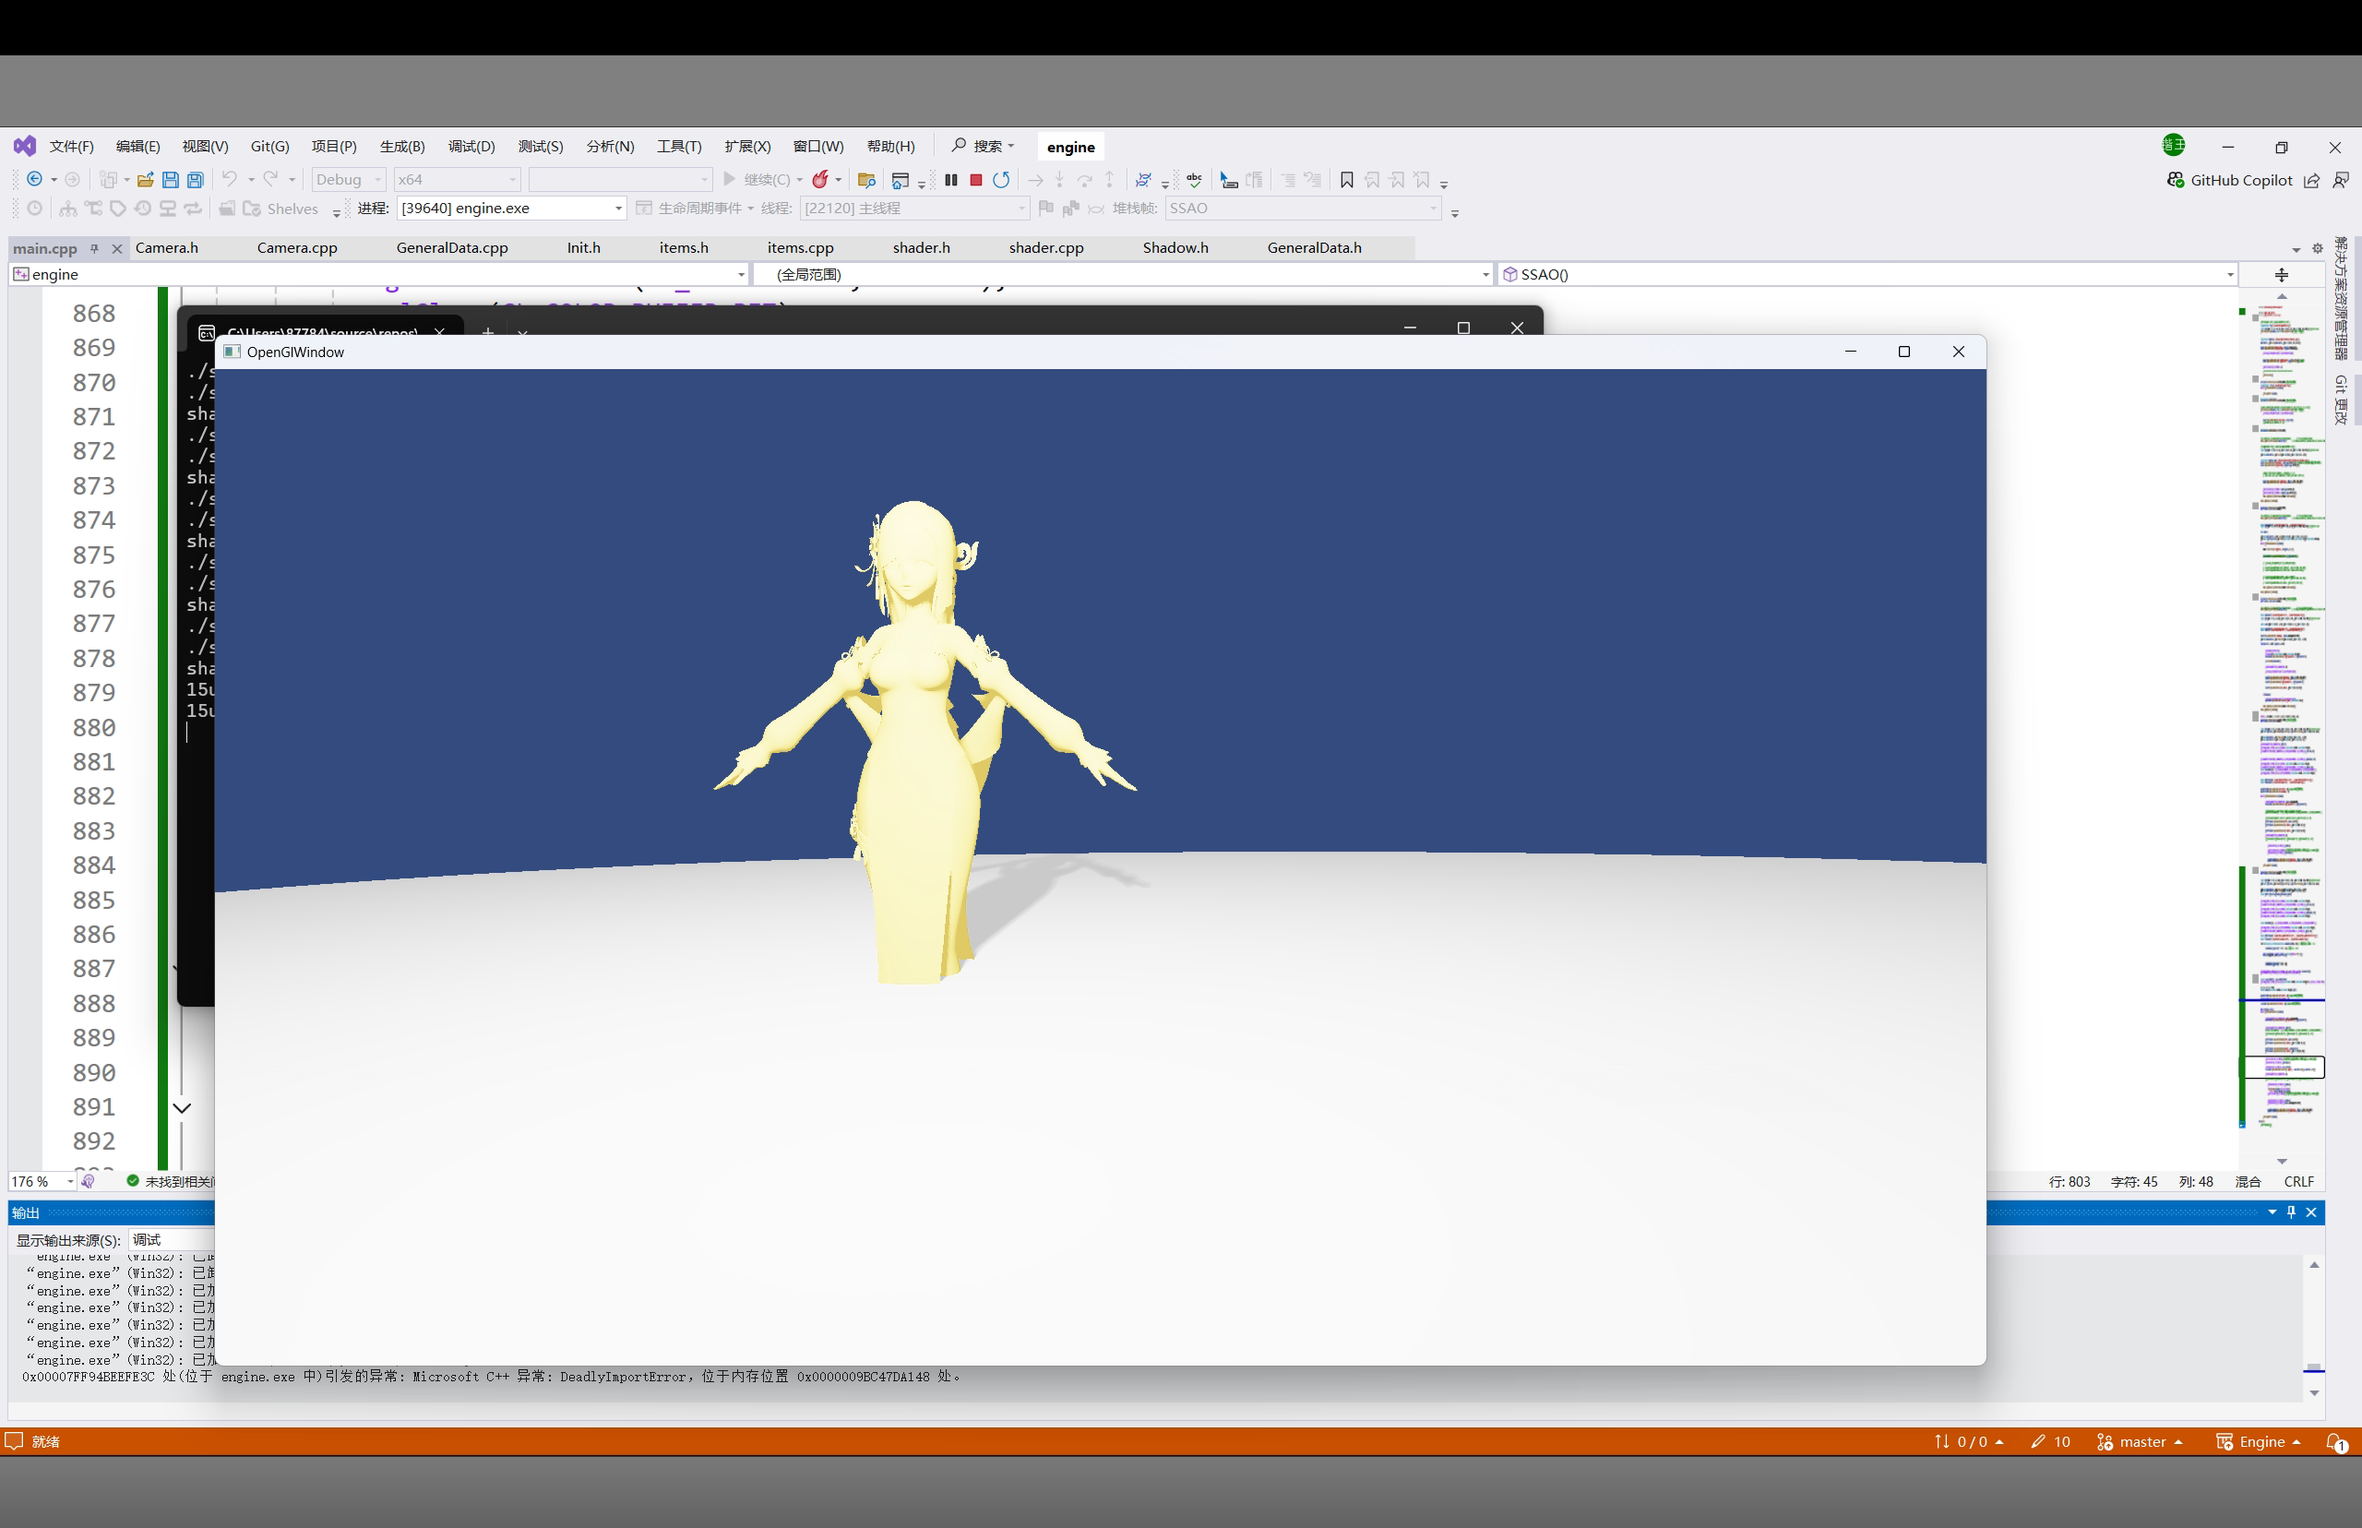
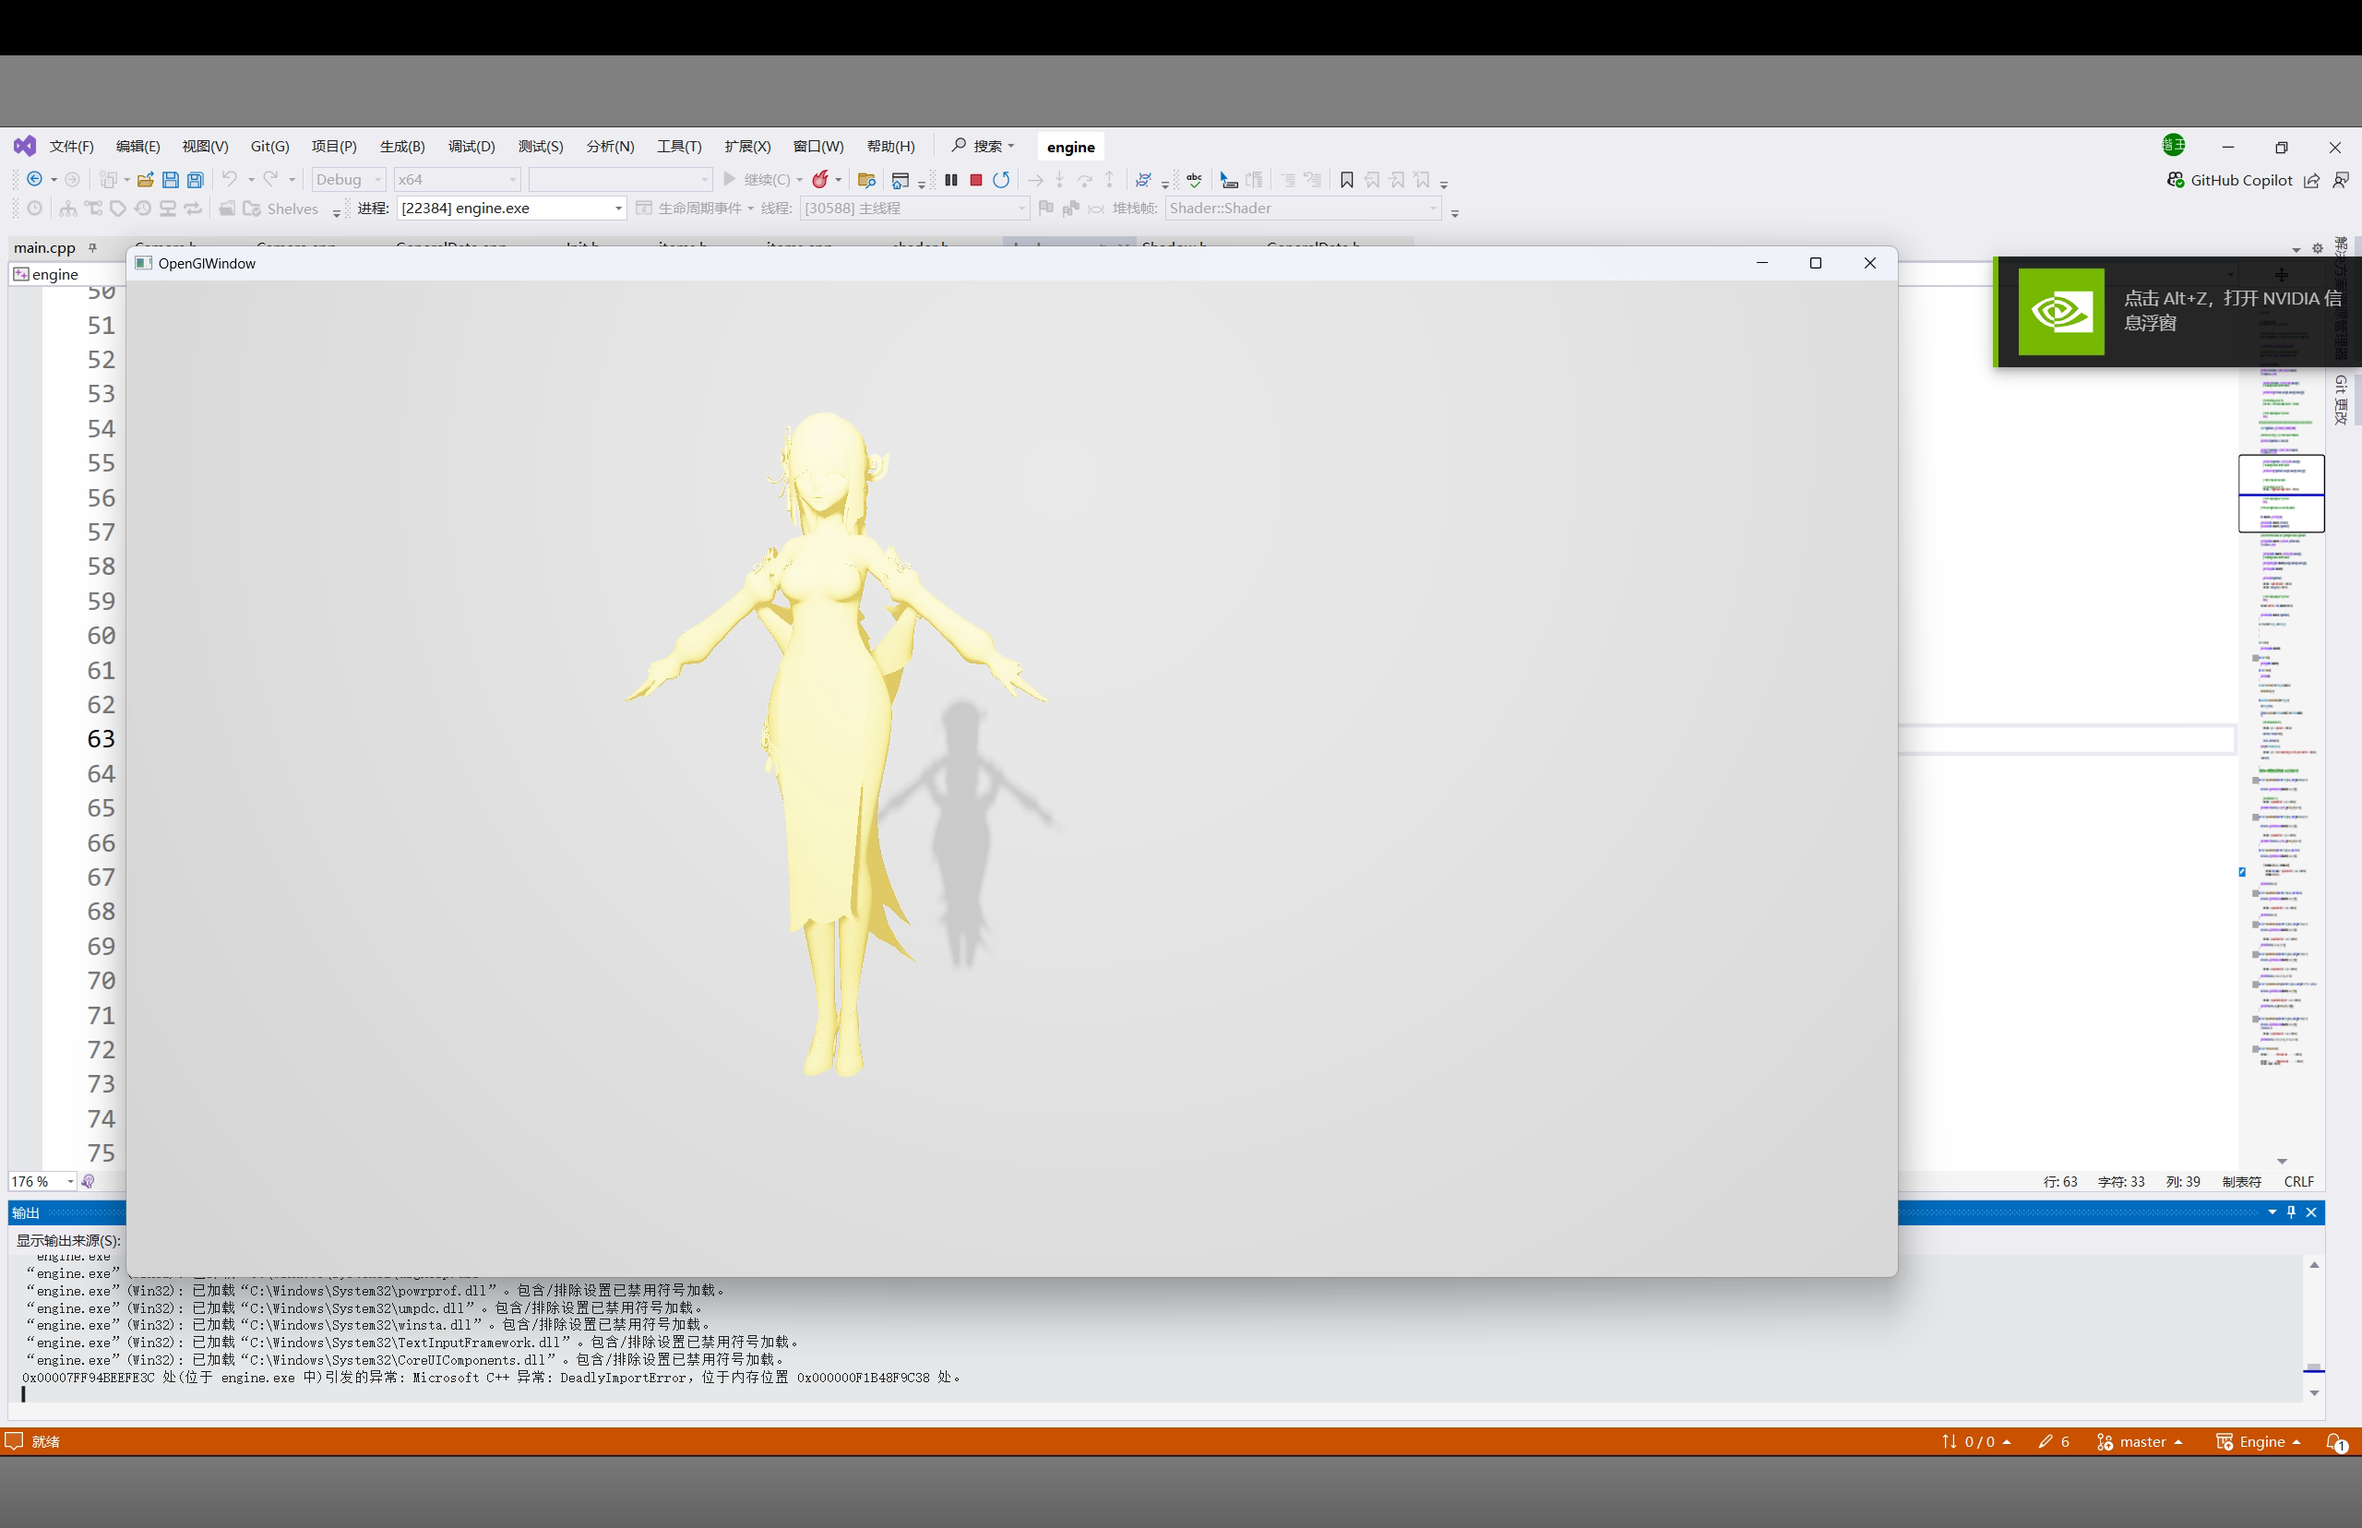
测试、修正ssao

diff --git a/engine/main.cpp b/engine/main.cpp
@@ -674,7 +674,8 @@ void SSAO()
 	//模型modle matrix
 	glm::mat4 modelMatrix = glm::translate(glm::mat4(1.0), glm::vec3(0, -2, 30));
 	modelMatrix = glm::scale(modelMatrix, glm::vec3(0.5, 0.5, 0.5));
-	glm::mat4 modelMatrix2 = glm::scale(glm::mat4(1.0), glm::vec3(5, 0.2, 3));
+
+	glm::mat4 modelMatrix2 = glm::scale(glm::mat4(1.0), glm::vec3(10, 10, 0.5));
 	modelMatrix2 = glm::translate(modelMatrix2, glm::vec3(3, -3, -3));
 	//设置G-Buffer
 	#pragma region G-Buffer
@@ -730,6 +731,7 @@ void SSAO()
 	Shader quadDeferedPBR("./shaderLib/ssaoDeferedPBR.vert", "./shaderLib/ssaoDeferedPBR.frag");
 	Shader shadowShader("./shaderLib/shadow.vert", "./shaderLib/shadow.frag");
 	Shader ssaoShader("./shaderLib/ssaoShader.vert", "./shaderLib/ssaoShader.frag");
+	ssaoShader.setName("ssaoShader");
 	#pragma endregion shader
 
 	#pragma region SSAO
@@ -791,7 +793,7 @@ void SSAO()
 	Shadow shadow(GeneralData::width,GeneralData::height,light);
 	//设置纹理
 	quadShader.Bind();
-	quadShader.UpLoadUniformInt("texture1", GL_TEXTURE0);
+	quadShader.UpLoadUniformInt("texture1", 6);
 	quadShader.UnBind();
 
 	quadDeferedPBR.Bind();
@@ -804,8 +806,8 @@ void SSAO()
 	quadDeferedPBR.UnBind();
 
 	ssaoShader.Bind();
-	ssaoShader.UpLoadUniformInt("texture1", 0);//sampler2D绑定到纹理单元
-	ssaoShader.UpLoadUniformInt("texture2", 1);
+	ssaoShader.UpLoadUniformInt("texture1", 0);
+	//ssaoShader.UpLoadUniformInt("texture2", 1);
 	ssaoShader.UpLoadUniformInt("texture3", 2);
 	ssaoShader.UpLoadUniformInt("noiseTexture", 5);
 	ssaoShader.UnBind();
@@ -833,15 +835,8 @@ void SSAO()
 		{
 			//G-Buffer pass
 			glBindFramebuffer(GL_FRAMEBUFFER, gBuffer);
-			//glViewport(0, 0, GeneralData::width, GeneralData::height);
-			//GLuint attachments[3] = { GL_COLOR_ATTACHMENT0, GL_COLOR_ATTACHMENT1, GL_COLOR_ATTACHMENT2 };
-			//glDrawBuffers(3, attachments);
-		
 			glEnable(GL_DEPTH_TEST);
-			//glClearColor(srgbToLinear(0.2f), srgbToLinear(0.3f), srgbToLinear(0.5f), 1.0);
 			glClearColor(0.2f, 0.3f, 0.5f, 1.0);
-			//glClearColor(pow(0.2f,1.0/2.2), pow(0.3f,1.0/2.2), pow(0.5f,1.0/2.2), 1.0);
-			//glClearColor(51, 76, 127, 255);
 			glClear(GL_COLOR_BUFFER_BIT | GL_DEPTH_BUFFER_BIT);
 			gBufferShader.Bind();
 			camera.SetModel(modelMatrix);
@@ -865,13 +860,16 @@ void SSAO()
 		//ssao
 		{
 			glBindFramebuffer(GL_FRAMEBUFFER, ssaoFBO);
+			//test 如果不draw，得到的结果
+			//glClearColor(0.0,0.0,0.0,1.0);
 			glClear(GL_COLOR_BUFFER_BIT);
+			glDisable(GL_DEPTH_TEST);
 			ssaoShader.Bind();
 			glActiveTexture(GL_TEXTURE0);//在绑定纹理之前先激活纹理单元 纹理单位就是GL_TEXTUREx这样的
 			glBindTexture(GL_TEXTURE_2D, gPosition);
 			
-			glActiveTexture(GL_TEXTURE1);
-			glBindTexture(GL_TEXTURE_2D, gAlbedoSpec);
+			//glActiveTexture(GL_TEXTURE1);
+			//glBindTexture(GL_TEXTURE_2D, gAlbedoSpec);
 			
 			glActiveTexture(GL_TEXTURE2);
 			glBindTexture(GL_TEXTURE_2D, gNormal);
@@ -881,6 +879,7 @@ void SSAO()
 			//samples
 			ssaoShader.UpLoadUniformFloat3Array("samples", ssaoKernel.data(),ssaoKernel.size());
 			ssaoShader.UpLoadUniformMat4("projection", camera.GetProjection());
+			quad.Draw(ssaoShader);
 			glBindFramebuffer(GL_FRAMEBUFFER, 0);
 		}
 		//draw quad
@@ -896,8 +895,12 @@ void SSAO()
 			if(testQuad)
 			{
 				quadShader.Bind();
-				glActiveTexture(GL_TEXTURE0);
-				glBindTexture(GL_TEXTURE_2D, gNormal);
+				//glActiveTexture(GL_TEXTURE0);
+				//glBindTexture(GL_TEXTURE_2D, gNormal);
+				glActiveTexture(GL_TEXTURE6);
+				glBindTexture(GL_TEXTURE_2D,ssaoColorBuffer);
+				quadShader.UpLoadUniformFloat("near_plane",GeneralData::near);
+				quadShader.UpLoadUniformFloat("far_plane",GeneralData::far);
 				quad.Draw(quadShader);
 			}
 			else
@@ -906,6 +909,7 @@ void SSAO()
 				{
 					if(usingSSAO==1) usingSSAO=0;
 					else if(usingSSAO==0) usingSSAO=1;
+					//std::cout<<"press space"<<std::endl;
 				}
 				quadDeferedPBR.Bind();
 				glActiveTexture(GL_TEXTURE0);//在绑定纹理之前先激活纹理单元 纹理单位就是GL_TEXTUREx这样的

diff --git a/engine/ResourceLayer/shader.h b/engine/ResourceLayer/shader.h
@@ -38,6 +38,7 @@ class Shader
 public:
 	Shader(VertexShader vs,FragmentShader fs);
 	Shader(std::string vs,std::string fs);
+	inline void setName(const std::string& _name){name=_name;}
 	~Shader();
 	inline GLuint GetID() { return mShaderID; }
 	void Bind();
@@ -52,6 +53,7 @@ public:
 	void UpLoadUniformFloat4(const std::string& name, const glm::vec4& m_vec3);
 	void PrintAllSourceCode();
 private:
+	std::string name;
 	std::unordered_set<std::string> errorName;
 	GLuint mShaderID;
 	std::string vsCode, fsCode;

diff --git a/engine/ResourceLayer/shader.cpp b/engine/ResourceLayer/shader.cpp
@@ -183,7 +183,7 @@ void Shader::UpLoadUniformInt(const std::string& name, const int num)
 	{
 		if (errorName.find(name) == errorName.end())
 		{
-			std::cout <<this->mShaderID << "up load int fail!" << name << std::endl;
+			std::cout <<this->name<< ": up load int fail!" << name << std::endl;
 			errorName.insert(name);
 		}
 	}

diff --git a/README.md b/README.md
@@ -129,11 +129,17 @@ shadow+PBR 不使用SSAO：
 
 ![pcf](./engine/Resource/readmeImage/ssao.png)
 
+这里为了使SSAO的效果更加明显，将采样的半径设置为了10。
+
 我们可以看到，此时在几何体较为接近的位置，亮度变暗了。同时影子也变暗了。
 
 这是因为此时我们并没有调整环境光的系数，还是使用的0.03作为环境光系数。
 
+## blur
 
+![pcf](./engine/Resource/readmeImage/ssaoNoBlur.png)
+
+当我们没有使用blur的时候我们可以看到这样的效果。
 
 
 
@@ -208,3 +214,19 @@ glm::lookAt(pos,front+pos,up),我们的想法是实现按a和d的时候实现平
 ```
 
 来存储。如果我们使用GL—RGBA和GL—UNSIGNED来存储，数值会在1截断。
+
+## SSAO
+
+1. uniform 被优化，哪怕我们使用一个texture，但是只采样而没有使用，这个uniform还是会被优化掉。
+2. ssao效果不明显。 当radius设置为1的时候我们很难看出ssao的效果。
+
+```glsl
+float depthValue= texture(texture3, offset.xy).w;//??????? 为什么取负号？
+```
+
+这里不应该取负号。
+
+分析：应该从如何存储z值开始考虑。
+
+
+
